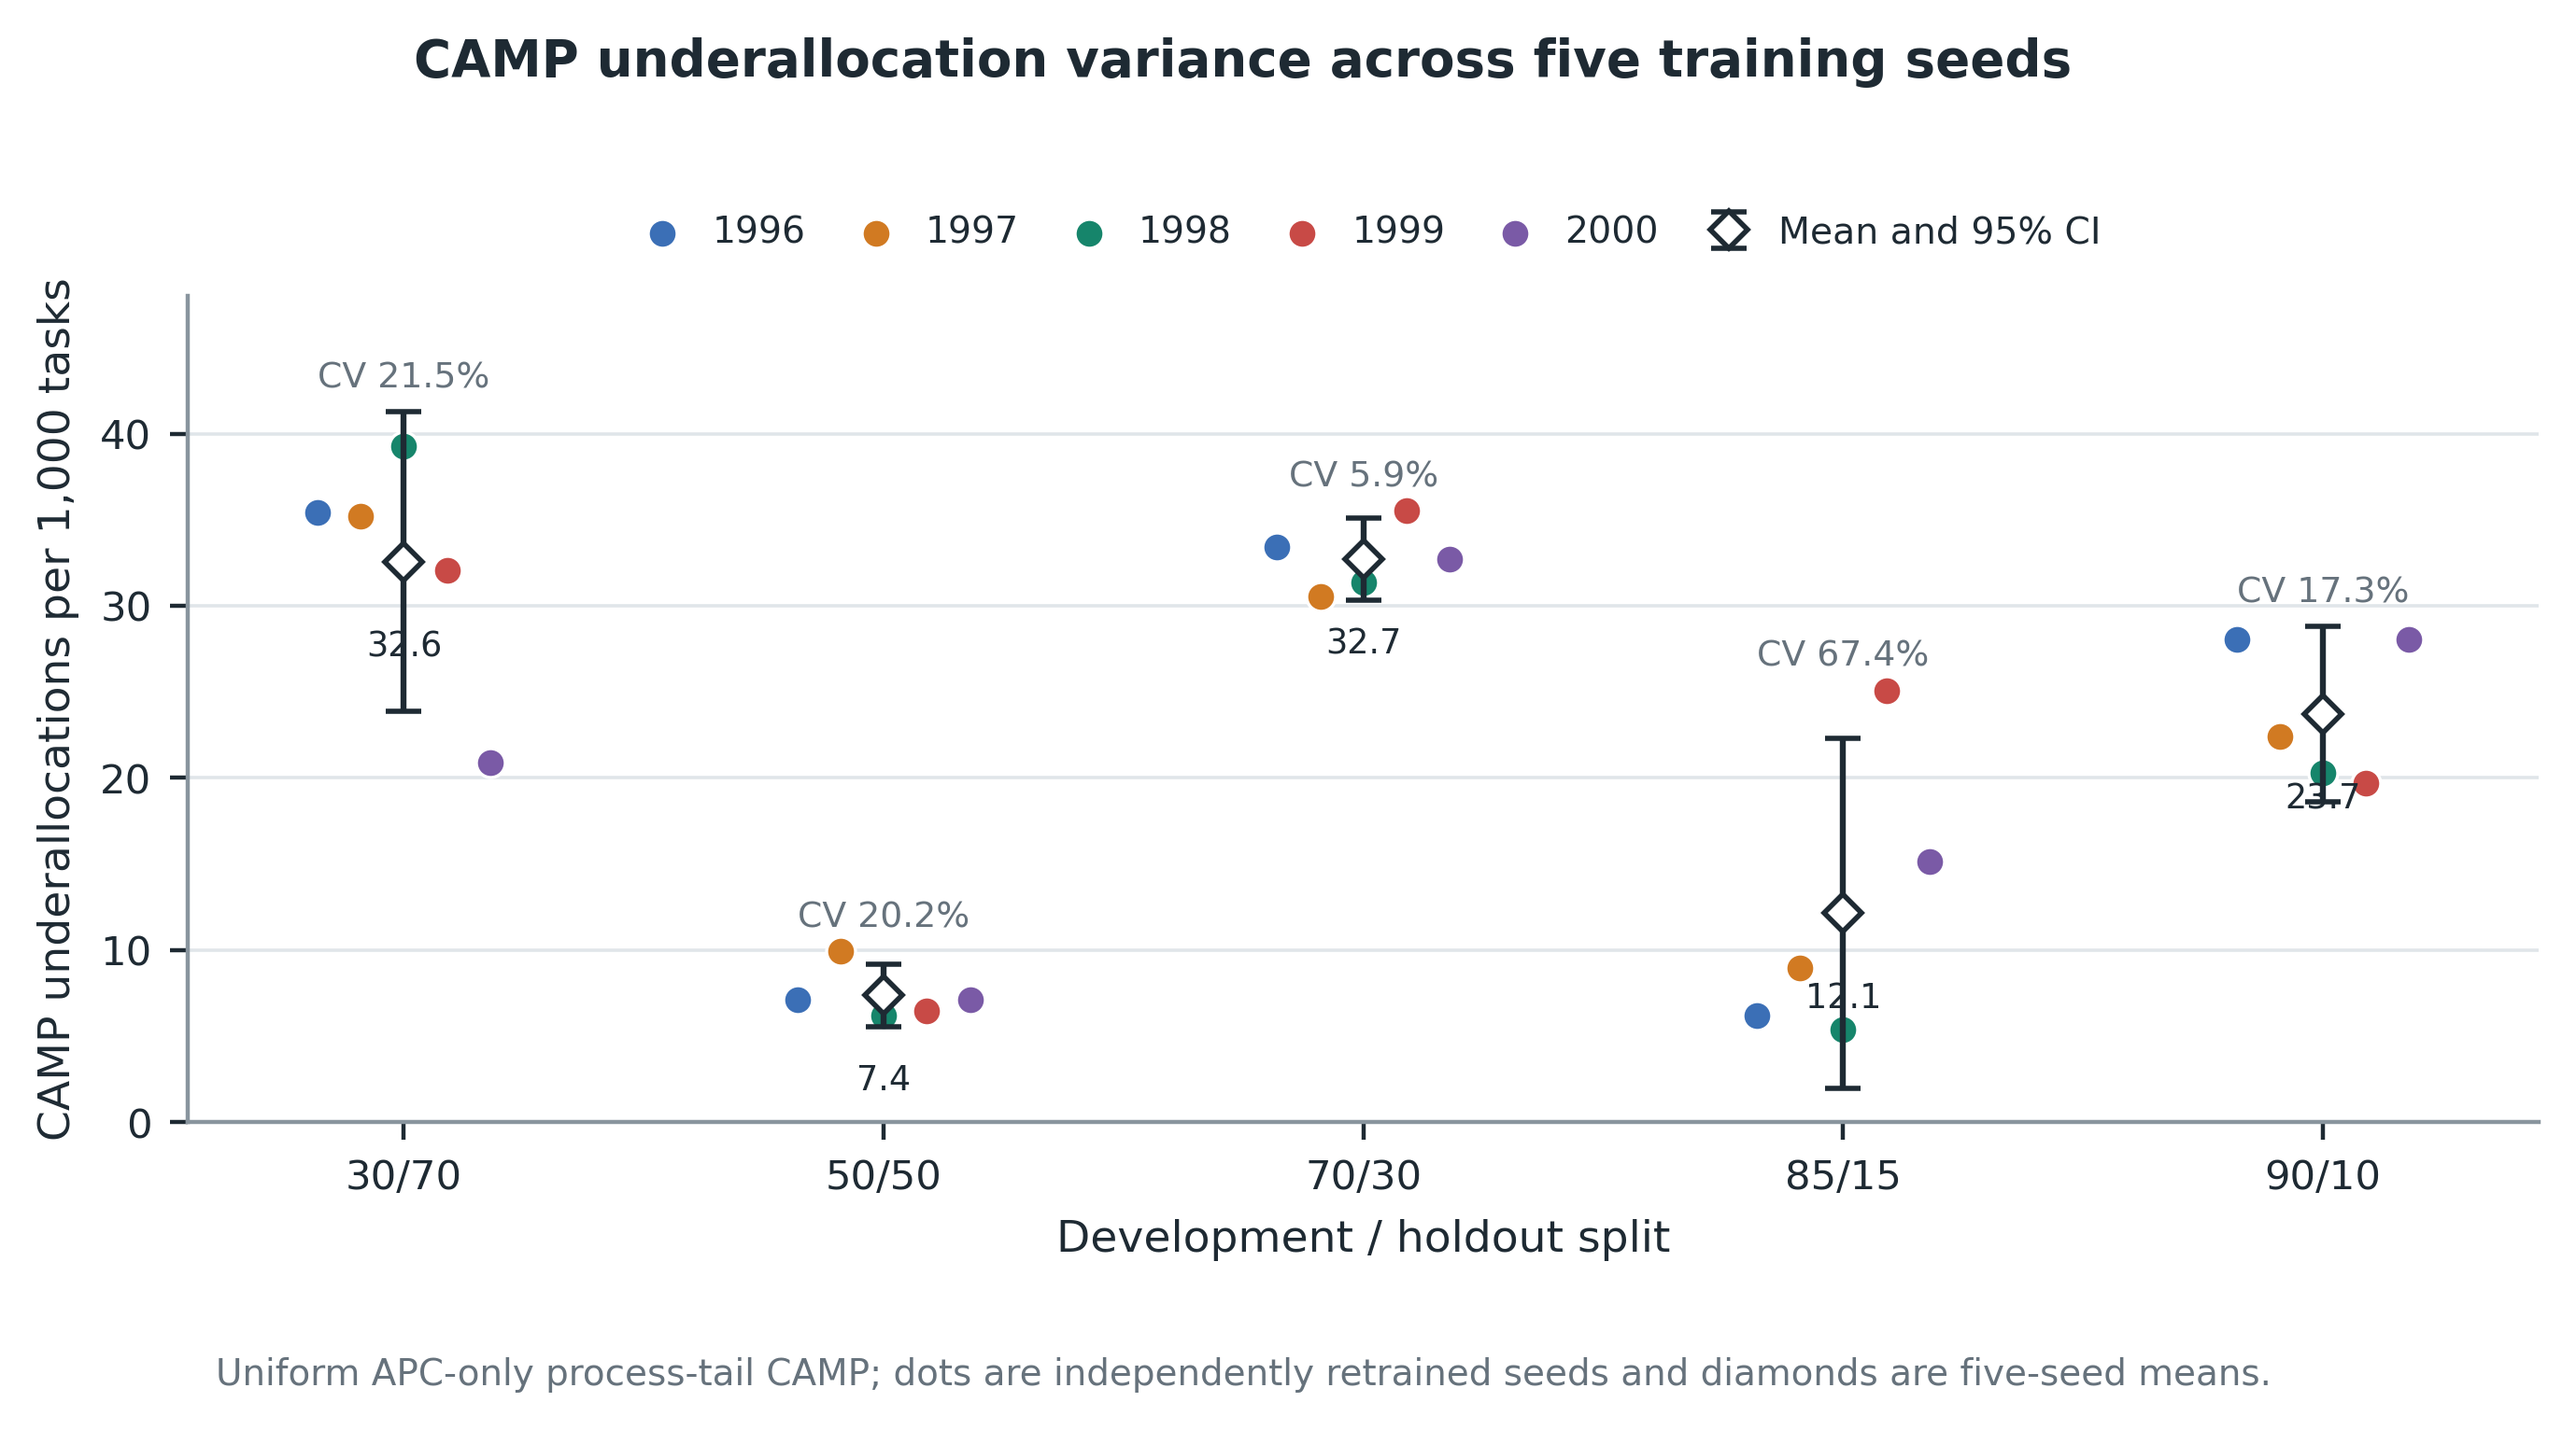
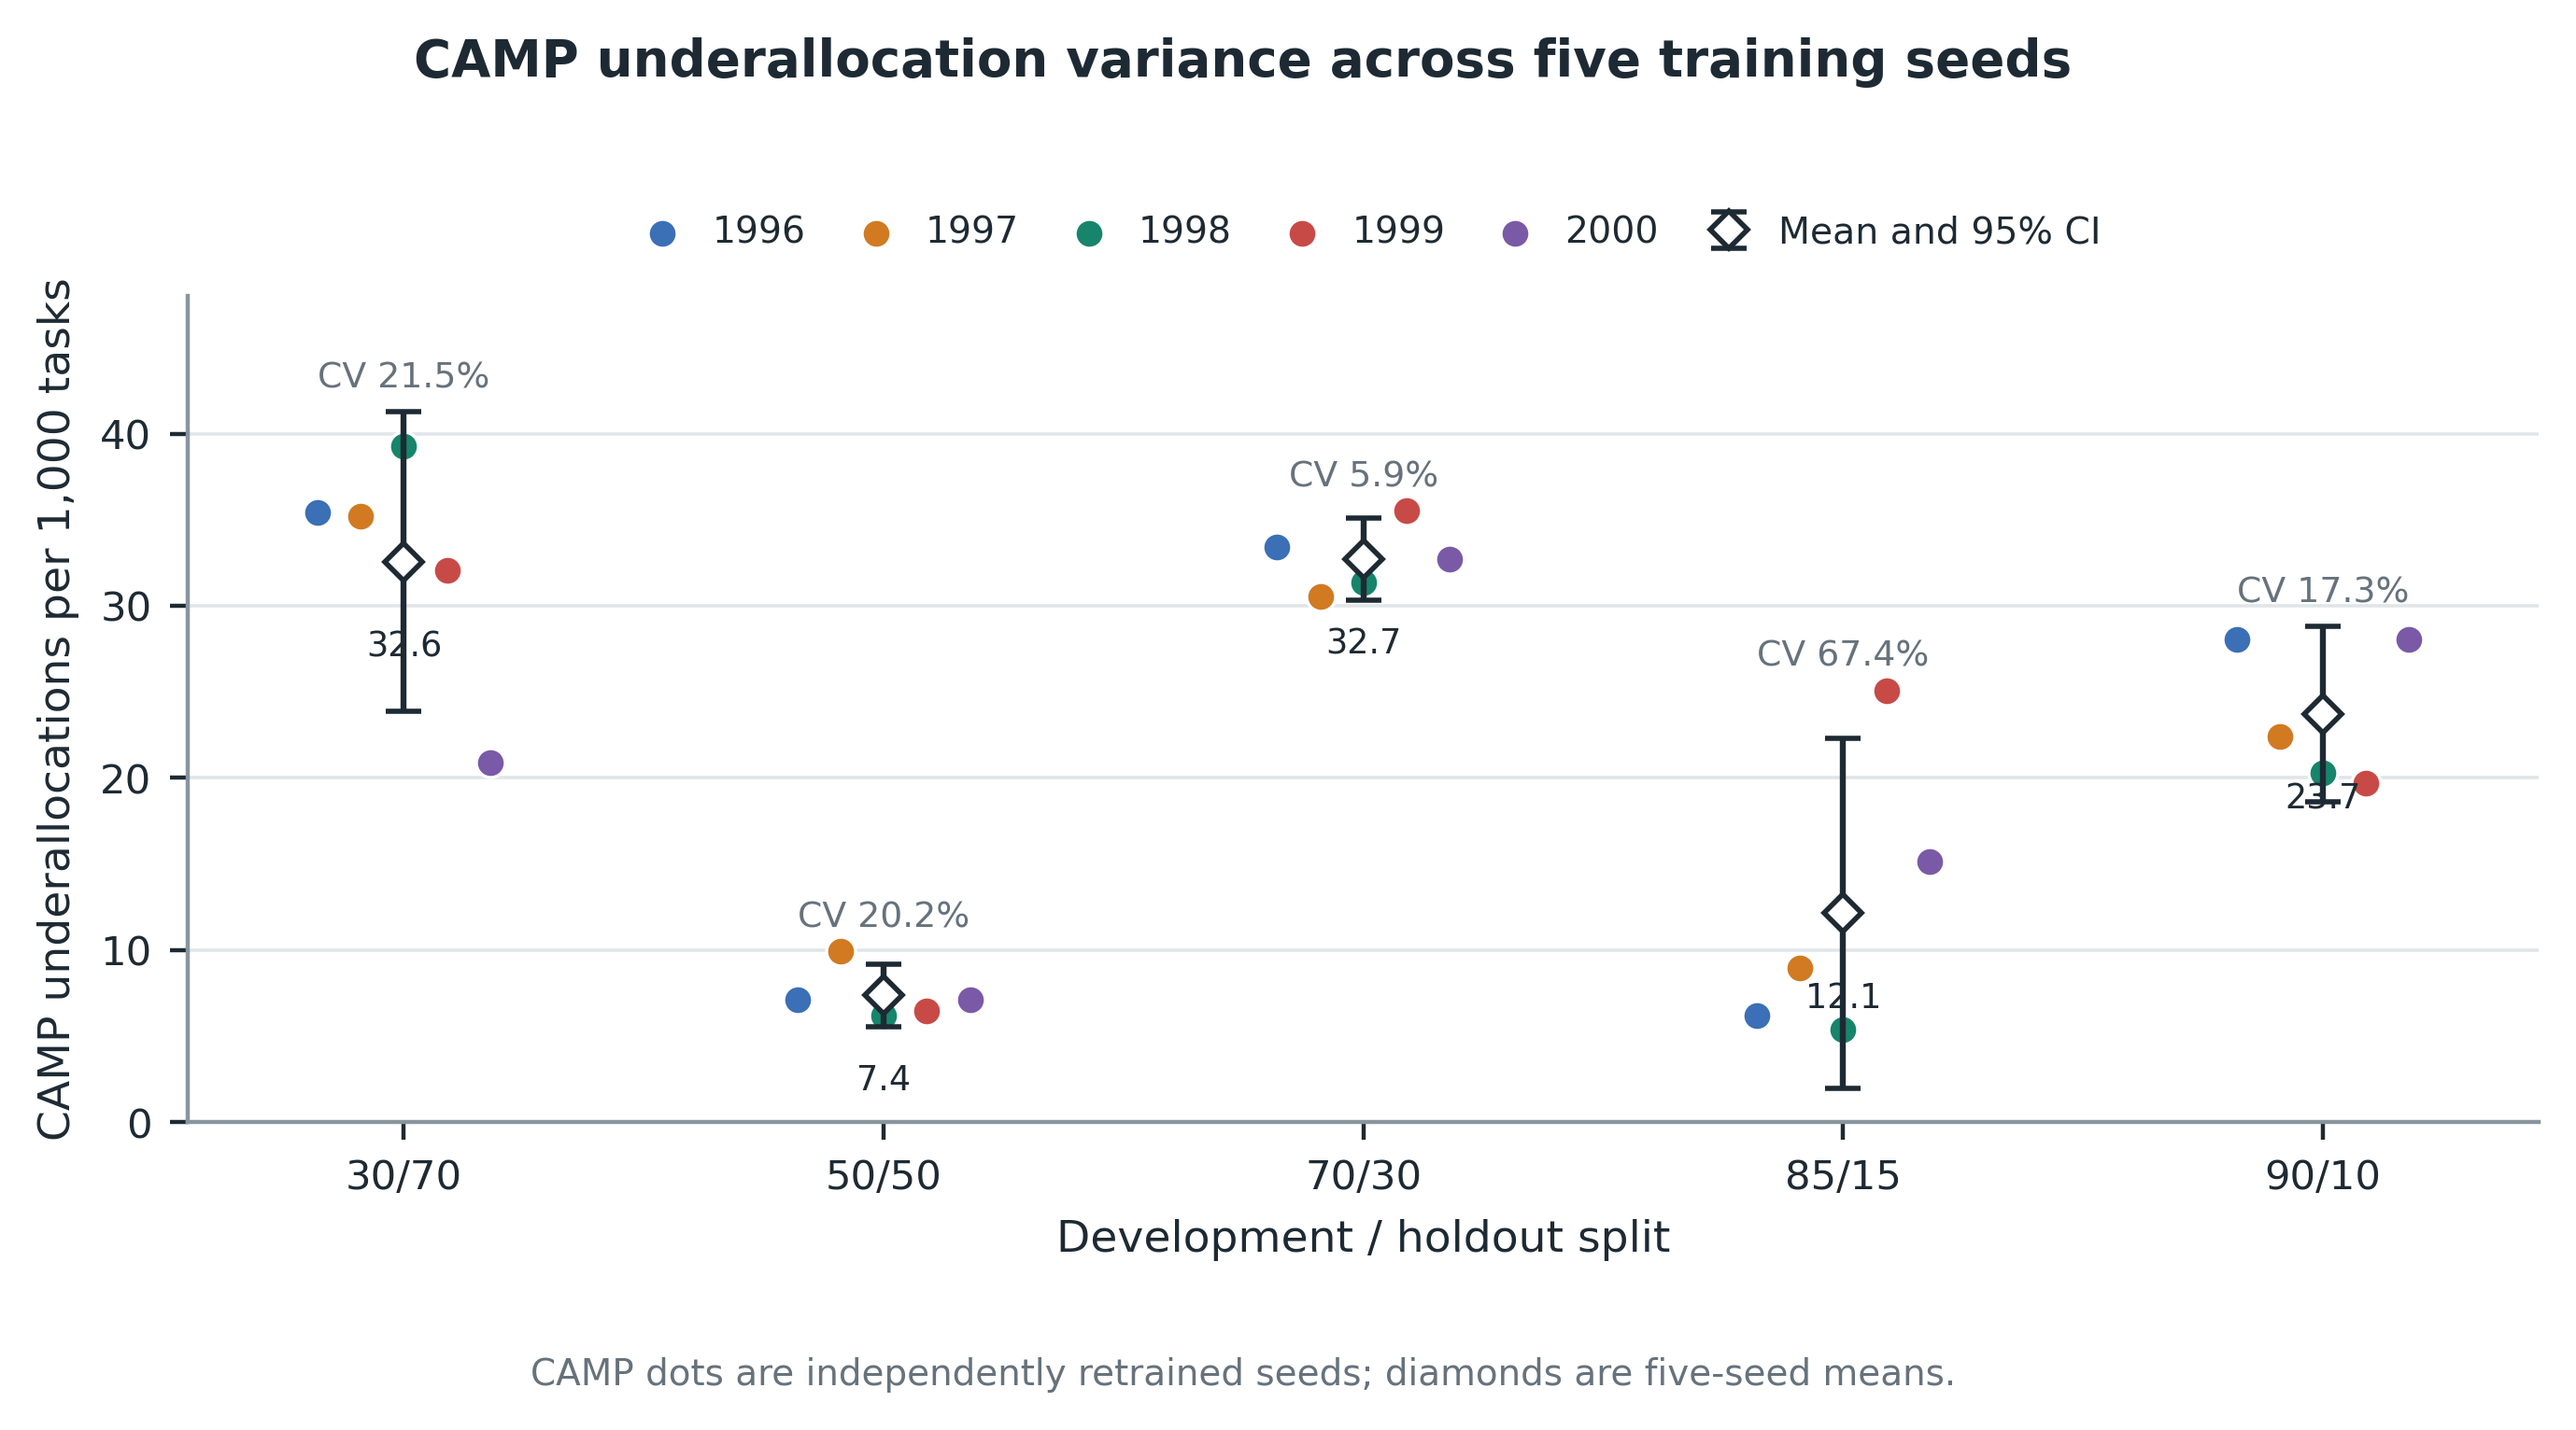
Sync RQ2 and RQ3 figures with paper

Changed region(s): [[0.0935, 0.951, 0.8731, 0.9817]]

diff --git a/SCRIPTS/RQ2/figures/generate_seed_variance_figure.py b/SCRIPTS/RQ2/figures/generate_seed_variance_figure.py
@@ -212,8 +212,8 @@ def main() -> None:
         0.5,
         0.012,
         (
-            "Uniform APC-only process-tail CAMP; dots are independently "
-            "retrained seeds and diamonds are five-seed means."
+            "CAMP dots are independently retrained seeds; diamonds are "
+            "five-seed means."
         ),
         ha="center",
         fontsize=7.0,

diff --git a/SCRIPTS/RQ3/figures/generate_sizey_vs_camp.py b/SCRIPTS/RQ3/figures/generate_sizey_vs_camp.py
@@ -136,6 +136,7 @@ def sizey_figure() -> None:
     ax.set_ylabel("Relative to Sizey (%)")
     ax.set_title("Capacity cost")
     clean_axis(ax)
+    ax.legend(frameon=False, loc="upper right")
     panel_label(ax, "(c)")
 
     fig.subplots_adjust(left=0.08, right=0.995, top=0.82, bottom=0.22, wspace=0.43)
